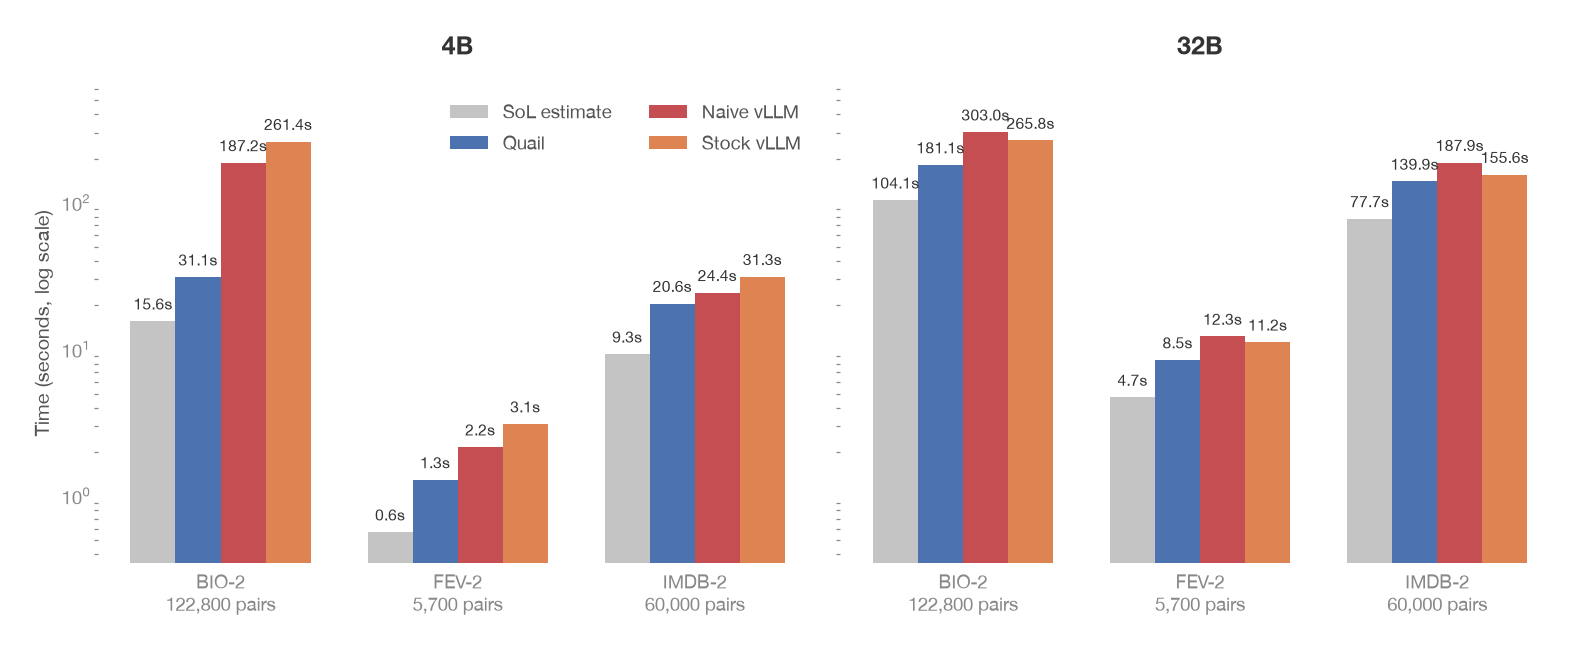
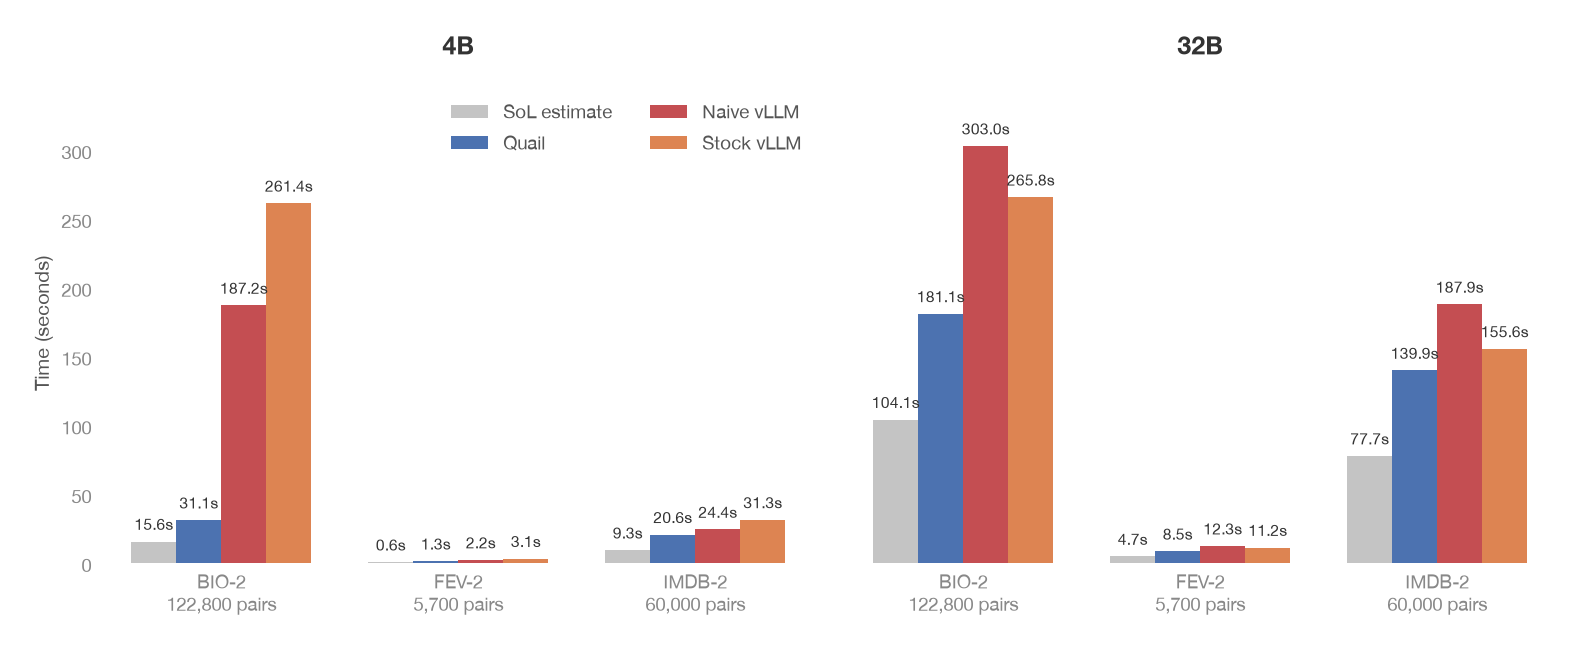
Use a linear axis for the join comparison

diff --git a/reports/make_vllm_opbench_plots.py b/reports/make_vllm_opbench_plots.py
@@ -106,6 +106,12 @@ def main(workdir: Path) -> None:
     colors = [GRAY, BLUE, RED, ORANGE]
     x = np.arange(len(QUERY_IDS))
     width = 0.19
+    max_time = max(
+        value
+        for model_results in results.values()
+        for system_results in model_results.values()
+        for value in system_results.values()
+    )
     fig, axes = plt.subplots(1, 2, figsize=(10.5, 4.2), sharey=True)
 
     for ax, (model, model_results) in zip(axes, results.items()):
@@ -127,13 +133,12 @@ def main(workdir: Path) -> None:
                     color=DARK,
                 )
 
-        ax.set_yscale("log")
-        ax.set_ylim(0.35, 650)
+        ax.set_ylim(0, max_time * 1.15)
         ax.set_xticks(x)
         ax.set_xticklabels([QUERY_LABELS[query_id]
                             for query_id in QUERY_IDS])
         ax.set_title(model)
-        ax.set_ylabel("Time (seconds, log scale)")
+        ax.set_ylabel("Time (seconds)")
 
     axes[1].set_ylabel("")
     axes[0].legend(loc="upper right", ncols=2)

diff --git a/reports/2026-08-25-vllm-opbench-baseline.md b/reports/2026-08-25-vllm-opbench-baseline.md
@@ -17,8 +17,7 @@ measured system.
 
 Figure: plots/vllm_opbench_vs_quail.png
 
-The plot uses a log scale because the measured times span more than two
-orders of magnitude.
+Both panels use the same linear time axis.
 
 | Model | Query | Pairs | SoL (s) | Quail (s) | Quail / SoL | Naive vLLM (s) | Compared with Quail | Stock vLLM (s) | Compared with Quail |
 |---|---|---:|---:|---:|---:|---:|---:|---:|---:|
